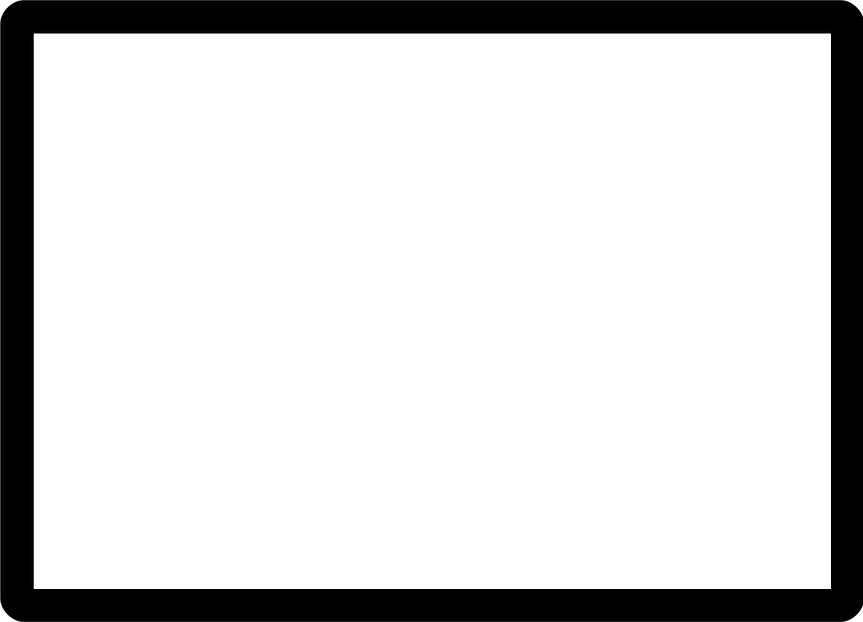
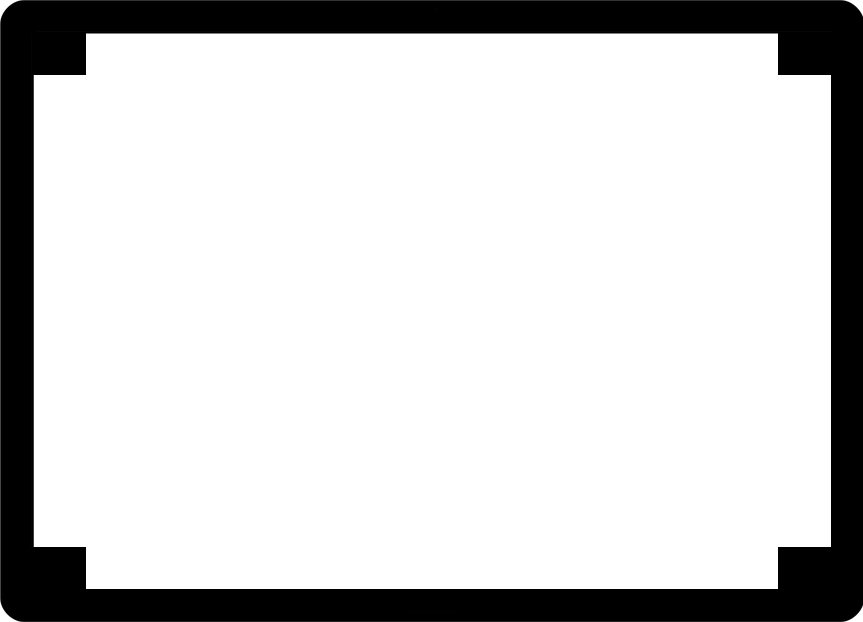
rope change

diff --git a/BalloonSimFront/src/styles.css b/BalloonSimFront/src/styles.css
@@ -183,7 +183,7 @@ h2 {
 }
 
 #tablet #map {
-    border-radius: 0px;
+    border-radius: 14px;
 }
 
 #map a,
@@ -526,10 +526,9 @@ h2 {
 /*Rope*/
 
 #rope {
-    width: 30px;
-    height: 100%;
+    width: 64px;
+    height: 80%;
     background-image: url("./assets/img/rope.png");
-    background-size: cover;
     background-repeat: repeat-y;
     position: absolute;
     z-index: 2;
